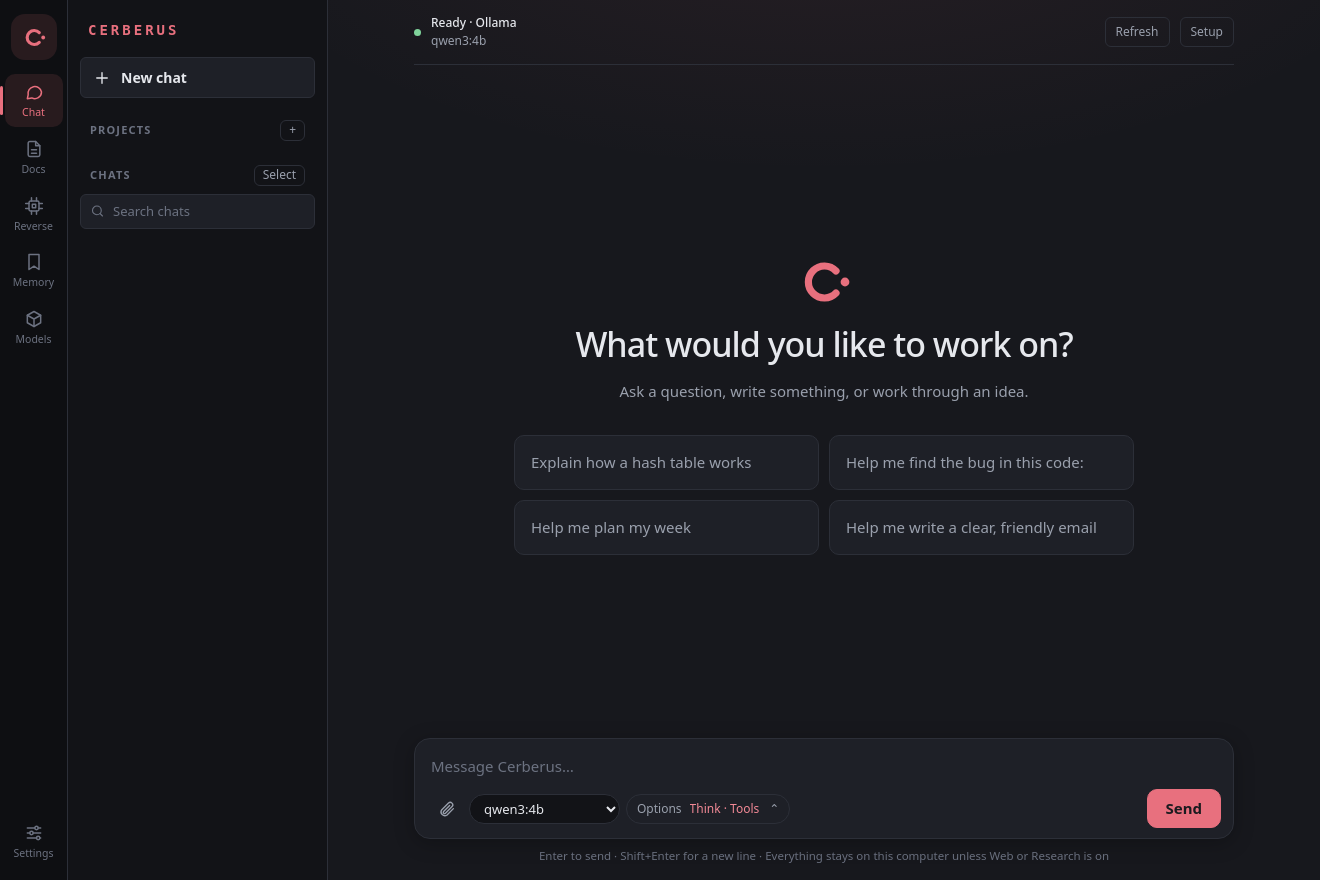
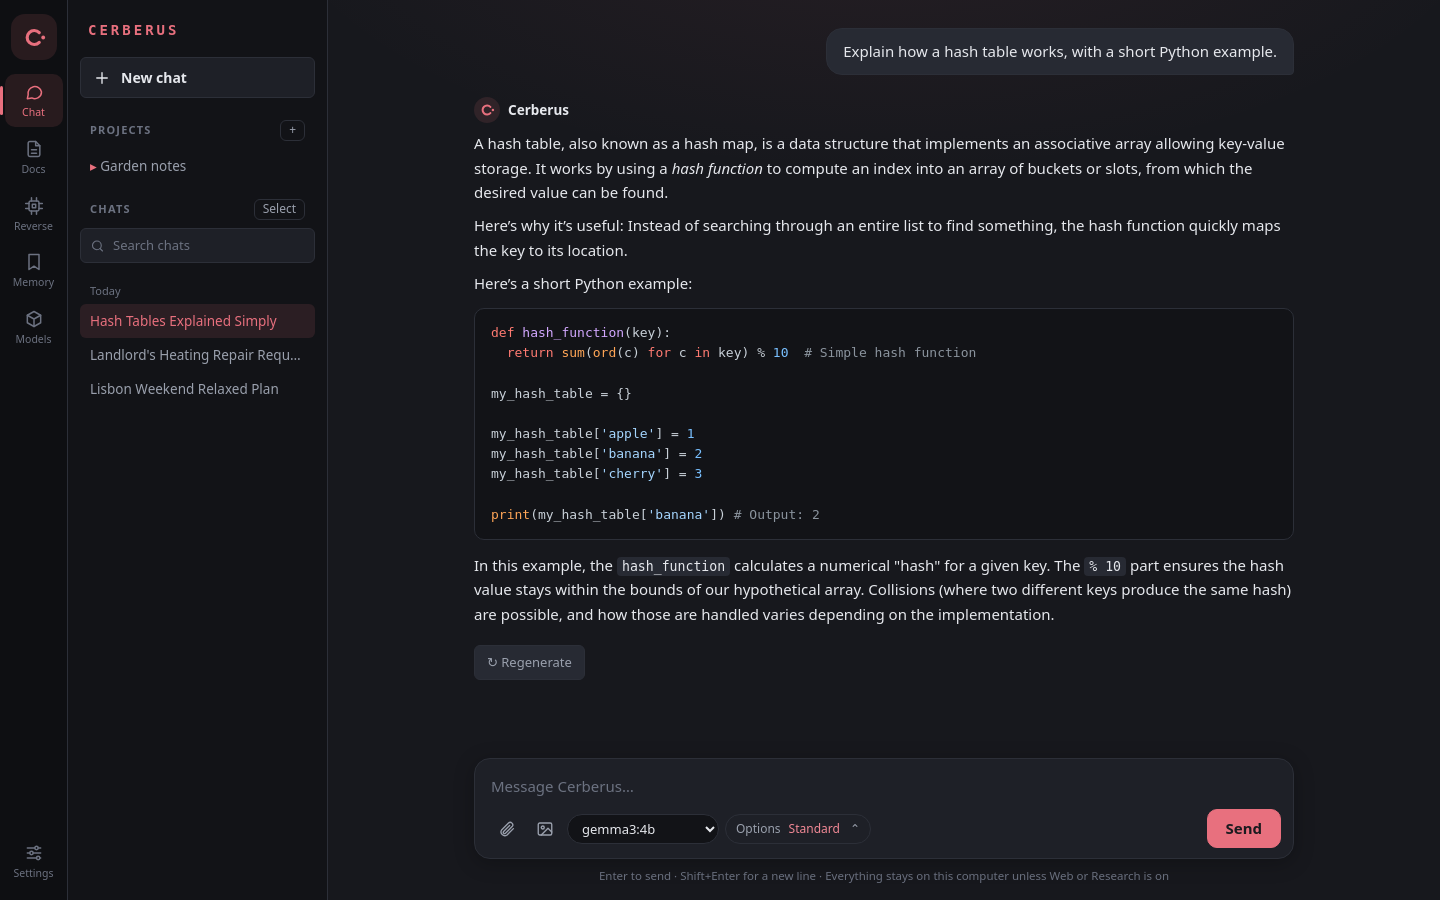
New README with current screenshots; next goals replace the comparison doc
Screenshots of chat, setup, model settings, projects and the mascot. docs/development/next-goals.md lists Cerberus's goals in order with what done means.

diff --git a/README.md b/README.md
@@ -17,15 +17,16 @@
 
 <p align="center">
   <a href="#download">Download</a> ·
-  <a href="#what-it-does">What it does</a> ·
+  <a href="#see-it-in-action">Tour</a> ·
+  <a href="#what-it-does">Features</a> ·
   <a href="#ai-engines">AI engines</a> ·
   <a href="docs/guide.md">Guide</a> ·
-  <a href="https://github.com/23lambi/Cerberus-ai/issues/new/choose">Issues</a>
+  <a href="docs/roadmap.md">Roadmap</a>
 </p>
 
 <p align="center">
-  <img src="docs/assets/chat.png" alt="Cerberus desktop chat with prompt suggestions and a compact message composer" width="100%">
-  <br><sub>Chat interface shown with sample data.</sub>
+  <img src="docs/assets/chat.png" alt="A Cerberus chat explaining hash tables with a highlighted Python example, chats and a project in the sidebar" width="100%">
+  <br><sub>Shown with sample data and a local gemma3:4b model.</sub>
 </p>
 
 ## Download
@@ -39,11 +40,12 @@
 
 1. **Download** the launcher for your computer and extract the ZIP.
 2. **Open the launcher**, choose where to install, and click **Install Cerberus**.
-3. **Start chatting.** The launcher opens Cerberus when it's done.
+3. **Start chatting.** Cerberus opens when the install is done, and a short
+   setup gets your AI ready.
 
-Cerberus updates itself from **Settings → Updates**. Your chats and settings stay
-in your user data folder. No Python or Git setup is needed.
-[All releases](https://github.com/23lambi/Cerberus-ai/releases)
+Cerberus updates itself from **Settings → Updates**, and shows what's new before
+you download. Your chats and settings stay in your own data folder. No Python or
+Git needed. [All releases](https://github.com/23lambi/Cerberus-ai/releases)
 
 <details>
 <summary><b>Which file do I need?</b></summary>
@@ -74,14 +76,52 @@ once before opening it:
 
 </details>
 
+## See it in action
+
+<table>
+  <tr>
+    <td width="50%" valign="top">
+      <h3>Ready in three steps</h3>
+      Choose where your AI runs, get a model that fits your computer, and say hi.
+      The mascot tells you when something's missing, and when it works.
+      <br><br>
+      <img src="docs/assets/setup.png" alt="Setup window: all steps done, the mascot says it works, and a first answer from the model">
+    </td>
+    <td width="50%" valign="top">
+      <h3>Tune every model</h3>
+      Choose how much of the chat a model sees at once, with the memory each size
+      takes and a suggestion for your computer, and how creative it answers.
+      <br><br>
+      <img src="docs/assets/model-settings.png" alt="Model settings: context length with memory per size, and temperature">
+    </td>
+  </tr>
+  <tr>
+    <td valign="top">
+      <h3>Projects that know your files</h3>
+      Keep chats and documents together. Answers cite the documents they used,
+      and you can open each source.
+      <br><br>
+      <img src="docs/assets/project.png" alt="A project chat answering from a watering guide, with the source listed">
+    </td>
+    <td valign="top">
+      <h3>A companion while it works</h3>
+      The pixel mascot's three heads bob while Cerberus thinks, and nod while it
+      writes the answer.
+      <br><br>
+      <img src="docs/assets/mascot-thinking.png" alt="The mascot while Cerberus is thinking">
+      <img src="docs/assets/mascot-answering.png" alt="The mascot while Cerberus writes its answer">
+    </td>
+  </tr>
+</table>
+
 ## What it does
 
 <table>
   <tr>
     <td width="50%" valign="top">
       <h3>💬 Chat</h3>
-      Streaming answers, image input, and tools. <b>Deep think</b> drafts,
-      reviews, then answers: three heads, one answer.
+      Streaming answers, image input, and tools like a calculator and memory
+      search. <b>Deep think</b> drafts, reviews, then answers: three heads, one answer.
     </td>
     <td width="50%" valign="top">
       <h3>📄 Documents</h3>
@@ -100,10 +140,16 @@ once before opening it:
     </td>
   </tr>
   <tr>
-    <td colspan="2" valign="top">
+    <td valign="top">
+      <h3>🧩 Works with any model</h3>
+      Pick any model you like. Reasoning written between think tags goes to
+      "Show thinking", and tool calls in every common format really run,
+      instead of showing up as raw text.
+    </td>
+    <td valign="top">
       <h3>🔒 Your data stays yours</h3>
-      Chats and documents live on your computer. Create backups and export chats
-      as Markdown or JSON at any time.
+      Chats and documents live on your computer. Back up everything, or export
+      a chat as Markdown or JSON, at any time.
     </td>
   </tr>
 </table>
@@ -118,8 +164,8 @@ Other OpenAI-compatible servers work too. Image and tool support depends on the
 engine and model. Cerberus can start its managed llama.cpp server or install its
 own Ollama. Optional web search and Research use SearXNG.
 
-In the app, open **Models** to manage Ollama models, find downloads, or connect
-to a running local app. Choose **Use in chat** to select a model.
+In the app, open **Models** to download models, connect to a running local app,
+or open a model's **Settings**. Choose **Use in chat** to select a model.
 [Engine setup guide →](docs/guide.md#choosing-an-ai-engine)
 
 ## Privacy
@@ -129,6 +175,12 @@ to a running local app. Choose **Use in chat** to select a model.
 > your messages and the context you provide go to that service. Web search also
 > contacts the configured search service and the pages it opens. API keys are
 > stored separately from the chat database and are excluded from backups.
+
+## What's next
+
+Coming up, in order: API keys that stay with their own connection, editing a
+sent message with both versions kept, a developer mode with custom assistants,
+and MCP tools. See the [roadmap](docs/roadmap.md).
 
 ## Build from source
 
@@ -166,16 +218,24 @@ venv/bin/python -m pytest -q
 node tests/frontend.test.cjs
 ```
 
+With Ollama running, check real models too:
+
+```bash
+venv/bin/python scripts/check_models.py    # clean answers from every installed model
+venv/bin/python scripts/check_prompts.py   # does the model make things up about itself?
+```
+
 The pixel mascot is drawn by `scripts/make_mascot.py`; edit its pixel rows and
 run it again to change the mascot and its animations.
 
 </details>
 
-[User guide](docs/guide.md) · [Contributing](CONTRIBUTING.md) · [Project layout](docs/development/architecture.md) · [Release process](docs/releasing.md)
+[User guide](docs/guide.md) · [Contributing](CONTRIBUTING.md) · [Project layout](docs/development/architecture.md) · [Release process](docs/releasing.md) · [Roadmap](docs/roadmap.md)
 
 ## Feedback and license
 
 Found a bug or have an idea? [Open an issue](https://github.com/23lambi/Cerberus-ai/issues/new/choose).
+Settings → Help → **Copy diagnostics** collects the details a bug report needs.
 
 Cerberus project code is licensed under [Apache 2.0](LICENSE); bundled libraries
 retain their [own licenses](static/vendor/README.md).

diff --git a/docs/development/next-goals.md b/docs/development/next-goals.md
@@ -1,0 +1,96 @@
+# Cerberus: next goals
+
+[← Roadmap](../roadmap.md)
+
+Updated 29 October 2026. The order is the plan; each goal lists what "done"
+means. These are goals, not promises: plans change when users tell us what
+they need.
+
+## Done recently
+
+- **Releases and updates:** launcher installs once; Cerberus updates itself from
+  Settings → Updates with checksums, and CI checks the Linux build on Fedora,
+  Arch and openSUSE.
+- **Setup:** one step at a time, ending with a real first answer.
+- **Any model, clean answers:** reasoning between think tags goes to "Show
+  thinking", tool calls written as text run, and `scripts/check_models.py`
+  checks every installed model.
+- **Model settings:** context length (with memory estimates and a suggestion
+  for this computer) and temperature, per model.
+
+## 1. Keep API keys with their connection
+
+Today one API key is shared by all OpenAI-compatible connections
+(`cerberus/engines/openai_api.py`, `current()`). Switching from one cloud
+provider to another, or to a local server, can send the previous key to the
+new address.
+
+Done when: each saved connection (provider + address) has its own key; switching
+never sends another connection's key; changing an address asks for the key
+again; existing keys migrate without ever reaching the browser, the database,
+exports or backups.
+
+## 2. Edit a message and branch
+
+Change a sent message and get a new answer from that point; the earlier version
+stays, reachable with ‹ 1/2 › arrows. Regenerate becomes a branch too.
+
+Done when: editing never loses an answer; the model only sees the branch on
+screen; summaries, recaps and exports follow the chosen branch; branches
+survive a restart and a backup restore.
+
+## 3. Developer mode
+
+A switch in Settings. Off (the default), Cerberus stays as simple as today.
+On, it shows tools for people who want more control:
+
+- **Custom assistants:** saved helpers with their own instructions, model and
+  tools, chosen when a chat starts.
+- **More model settings:** top-p, repeat penalty, seed and similar.
+- **MCP servers** (goal 4) live here.
+
+Done when: switching it off hides everything again without losing it; normal
+users never see an option they need developer knowledge for.
+
+## 4. MCP servers (in developer mode)
+
+Connect Model Context Protocol servers so their tools join the calculator, the
+time and memory search.
+
+Done when: each server is added deliberately and can be switched off or removed;
+every tool run is shown in the chat like built-in tools; a tool that changes
+something (writes a file, sends a message) asks first; server credentials stay
+with their server (as in goal 1); a server that crashes or hangs never blocks
+the chat.
+
+## 5. Recovery
+
+A visible "Restore from backup" in Settings, next to the existing backup.
+
+Done when: a restore checks the backup's version first, can be cancelled, and
+keeps the current data if anything fails.
+
+## 6. Clearer download problems
+
+Model and app downloads explain what went wrong: out of disk space, no
+permission, connection lost, file in use; each with what to do next.
+
+## Later
+
+- **Dictation:** speak instead of typing, with clear microphone permission and a
+  visible recording state.
+- **Live HTML/code preview** in a locked-down sandbox, without access to Cerberus.
+- **A smaller desktop app:** the Linux download is 253 MB because it bundles a
+  browser engine; a shell that uses the system's own (such as Tauri) could make
+  every download much smaller.
+- **Code signing** for Windows and macOS, so the "unverified app" warnings go away.
+- **A local API for other apps**, only with its own authentication and an
+  explicit network setting.
+
+## Ways of working
+
+- One goal at a time, each with tests for its "done when".
+- Check real models with `scripts/check_models.py` and prompts with
+  `scripts/check_prompts.py` whenever answers or prompts change.
+- Keep the structure small: `cerberus/` for the app, `launcher/` for installing,
+  `static/` for the page, `scripts/` for tools, `tests/` for checks.

diff --git a/docs/roadmap.md b/docs/roadmap.md
@@ -2,17 +2,18 @@
 
 [← README](../README.md)
 
-Cerberus is in active development. These are areas for improvement, not release
-commitments.
+Cerberus is in active development. These are the next goals, in order, not
+release commitments.
 
-1. **First release:** complete native build checks and verify clean installs and updates.
-2. **Connection profiles:** isolate API keys by provider/address and simplify switching.
-3. **Model setup:** clearer Download/Use/Start actions, memory-fit estimates and useful errors.
-4. **Recovery:** accessible backup/restore and a defined update rollback strategy.
-5. **Optional capabilities:** local dictation, sandbox previews, then selected MCP integrations.
+1. **Connection profiles:** each API key stays with its own provider and address.
+2. **Edit and branch:** change a sent message and keep both versions.
+3. **Developer mode:** custom assistants and advanced model settings, hidden
+   until you switch it on.
+4. **MCP servers:** connect extra tools, in developer mode.
+5. **Recovery:** restore a backup from Settings.
+6. **Clearer download problems:** say what went wrong and what to do next.
 
-See the [Atomic Chat comparison](development/atomic-chat-review.md) for source
-references, current gaps, and acceptance criteria. These ideas are not all implemented.
+Each goal, with what "done" means: [Next goals](development/next-goals.md).
 
 Current features are described in the [README](../README.md) and
 [user guide](guide.md). Suggest improvements through
